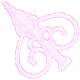
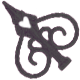
added home hover img & about button

diff --git a/src/pages/Home.jsx b/src/pages/Home.jsx
@@ -72,8 +72,9 @@ const Home = () => {
         <motion.div variants={nameVariants} animate={hover? "show" : "hidden"} initial="hidden" custom={[25, -20, 7]}>sarah khadra</motion.div>
       </motion.div>
 
-      <div>
-        <motion.img id="landing-dollhouse" onClick={()=>setClick(true)} animate={click&&"clicked"} variants={houseVariants} onAnimationComplete={() => navigate("/works")} onMouseEnter={() => {setHover(true)}} onMouseLeave={() => setHover(false)} src="/img/front/dollhouse-front.png"/>
+      <div style={{position: "relative"}}>
+        <motion.img id="landing-dollhouse" onClick={()=>setClick(true)} animate={click&&"clicked"} variants={houseVariants} onAnimationComplete={() => navigate("/works")} onMouseEnter={() => {setHover(true)}} onMouseLeave={() => setHover(false)} src={hover ? "/img/front/dollhouse-open.png" : "/img/front/dollhouse-front.png"}/>
+        {hover && <motion.div initial={{opacity: 0}} animate={click?{opacity: 0, transition: {duration: 0.1}}:{opacity: 1, transition: {duration: 0.5}}} style={{position: "absolute", top: "60%", fontFamily: "jacquard", background: "var(--grey)", fontSize: "1rem"}}>click to enter</motion.div>}
         <motion.div className="landing-below pink-button" variants={whoVariants} animate={hover? "show" : "hidden"} initial="hidden">who lives in the dollhouse?</motion.div>
       </div>
 

diff --git a/src/components/AboutWork.jsx b/src/components/AboutWork.jsx
@@ -8,7 +8,7 @@ const AboutWork = ({data}) => {
   return (
     <>
     <div id="about-button" onClick={() => setOpen(prev => !prev)}>
-        (i)
+        <motion.img src="/img/front/info.png" animate={open ? {rotate: 180, transition: {duration: 0.3}} : {rotate: 0, transition: {duration: 0.3}}} style={{height: "100%"}}/>
     </div>
     <AnimatePresence>
         {open && <motion.div id="about-overlay" initial={{opacity: 0}} animate={{opacity: 1}} exit={{opacity: 0}}>

diff --git a/src/index.css b/src/index.css
@@ -166,6 +166,7 @@ a{
   right: var(--margin);
   z-index: 200;
   cursor: pointer;
+  height: 70px;
 }
 #about-overlay{
   position: absolute;
